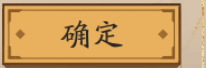
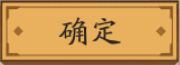
fix(SwitchSoul): 确定按钮素材改为紧贴按钮的无背景裁剪(180x65)

diff --git a/tasks/Component/SwitchSoul/assets.py b/tasks/Component/SwitchSoul/assets.py
@@ -43,7 +43,7 @@ class SwitchSoulAssets:
 	# description 
 	I_SOU_SWITCH_4 = RuleImage(roi_front=(978,603,25,22), roi_back=(962,592,53,34), threshold=0.8, method="Template matching", file="./tasks/Component/SwitchSoul/ss/ss_sou_switch_4.png")
 	# description 
-	I_SOU_SWITCH_SURE = RuleImage(roi_front=(662,404,206,68), roi_back=(662,404,206,68), threshold=0.8, method="Template matching", file="./tasks/Component/SwitchSoul/ss/ss_sou_switch_sure.png")
+	I_SOU_SWITCH_SURE = RuleImage(roi_front=(664,407,180,65), roi_back=(664,407,180,65), threshold=0.8, method="Template matching", file="./tasks/Component/SwitchSoul/ss/ss_sou_switch_sure.png")
 	# 用于判断是否在式神录里面 
 	I_SOU_CHECK_IN = RuleImage(roi_front=(269,69,50,49), roi_back=(269,69,50,49), threshold=0.8, method="Template matching", file="./tasks/Component/SwitchSoul/ss/ss_sou_check_in.png")
 	# description 
@@ -65,7 +65,7 @@ class SwitchSoulAssets:
 	# 需要切换的预设按钮(颜色深一点) 
 	I_SOU_CLICK_PRESENT = RuleImage(roi_front=(978,304,25,26), roi_back=(965,142,48,480), threshold=0.9, method="Template matching", file="./tasks/Component/SwitchSoul/ss/ss_sou_click_present.png")
 	# 误触点到式神检查 
-	I_CHECK_BLOCK = RuleImage(roi_front=(662,404,206,68), roi_back=(662,404,206,68), threshold=0.8, method="Template matching", file="./tasks/Component/SwitchSoul/ss/ss_check_block.png")
+	I_CHECK_BLOCK = RuleImage(roi_front=(664,407,180,65), roi_back=(664,407,180,65), threshold=0.8, method="Template matching", file="./tasks/Component/SwitchSoul/ss/ss_check_block.png")
 	# 通用进入式神录 
 	I_GOTO_SHIKIGAMI_COMMON = RuleImage(roi_front=(1037,567,36,36), roi_back=(617,503,487,134), threshold=0.8, method="Template matching", file="./tasks/Component/SwitchSoul/ss/ss_goto_shikigami_common.png")
 
